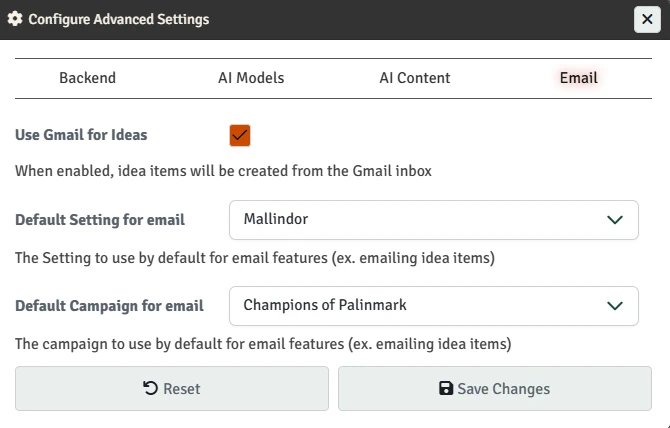
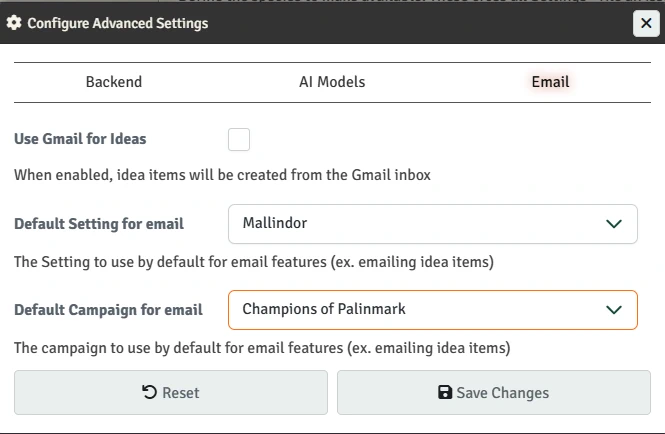
basic migration structure looks good

diff --git a/src/utils/migration/versions/MigrationV1_8.ts b/src/utils/migration/versions/MigrationV1_8.ts
@@ -132,7 +132,7 @@ export class MigrationV1_8 implements Migration {
             aiEnabled: true,
             aiPromptTemplate: `
               The description should have two, distinct sections.  Avoid filler, keep both sections practical and immediately game-ready. The sections are:
-              1. Boxed Text (for players): A short, vivid description that a GM can read aloud. Focus on immediate sensory impressions: Appearance (what they look like at first glance: clothing, posture, expression). Behavior / presence (mannerisms, how they carry themselves, the “vibe” they give off). Mood / emotional impression (how the characters make the PCs feel on meeting them).  Avoid backstory, stats, secret motives, or mechanical detail — keep it to what the PCs see, hear, and sense right now, before interacting with them. DO NOT describe anything about the location - just the character. Write in the present tense and keep it tight (3–6 sentences).
+              1. Boxed Text (for players): A short, vivid description that a GM can read aloud. Focus on immediate sensory impressions: Appearance (what characters see at first glance: clothing, expression, scenery). Behavior / presence of characters, the “vibe” of characters or locations). Mood / emotional impression (how the situation makes the PCs feel).  Avoid backstory, stats, secret motives, or mechanical detail — keep it to what the PCs see, hear, and sense right now, before interacting with them. DO NOT describe anything about the location - just the character. Write in the present tense and keep it tight (3–6 sentences).
               2. GM Notes (for the DM only): Clear, concise bullet points or short paragraphs with: Hidden details, history, or lore.
 
               Follow this structure (SEPARATING SECTIONS AND ANY LISTS WITH \\n and MAKING SURE to include the field labels and asterisks):
@@ -144,7 +144,7 @@ export class MigrationV1_8 implements Migration {
             sortOrder: 0,
             configuration: {
               minWords: 150,
-              maxWords: 220,
+              maxWords: 180,
               tone: 'neutral',
               tense: 'present',
               pov: 'third',

diff --git a/src/utils/customFields.ts b/src/utils/customFields.ts
@@ -82,13 +82,13 @@ export const resetDefaultCustomFields = async () => {
     aiEnabled: true,
     aiPromptTemplate: topicPrompt,
     configuration: {
-      minWords: 150,
-      maxWords: 220,
+      minWords: 60,
+      maxWords: 100,
       tone: 'neutral',
       tense: 'present',
       pov: 'third',
-      includeBullets: false,
-      avoidListsLongerThan: 0,
+      includeBullets: true,
+      avoidListsLongerThan: 3,
     }
   });
     

diff --git a/docs/reference/configuration/index.md b/docs/reference/configuration/index.md
@@ -37,10 +37,6 @@ This is where you configure your backend if you are using Advanced Features.
 **AI Models Tab** - For selecting the AI models you want to use
 ![AI Models Tab](/assets/images/advanced-settings-aimodels.webp)
 
-**AI Content** - Settings for how AI generation should be done
-![AI Content Tab](/assets/images/advanced-settings-aicontent.webp)
-  - **RPG-style descriptions**: If checked, generated descriptions will be in the format of an RPG adventure - boxed text plus DM notes.  If unchecked, they will instead be longer, narrative descriptions.
-  - **Long description paragraphs**: When using long descriptions (see above), this setting determines the number of paragraphs to generate.
 
 **Email** - Settings for the [Email to Ideas List](/reference/backend/email).  Note that this feature does not use AI and can be used independently of the others (i.e. without providing AI API Keys).
 ![Email Tab](/assets/images/advanced-settings-email.webp)
